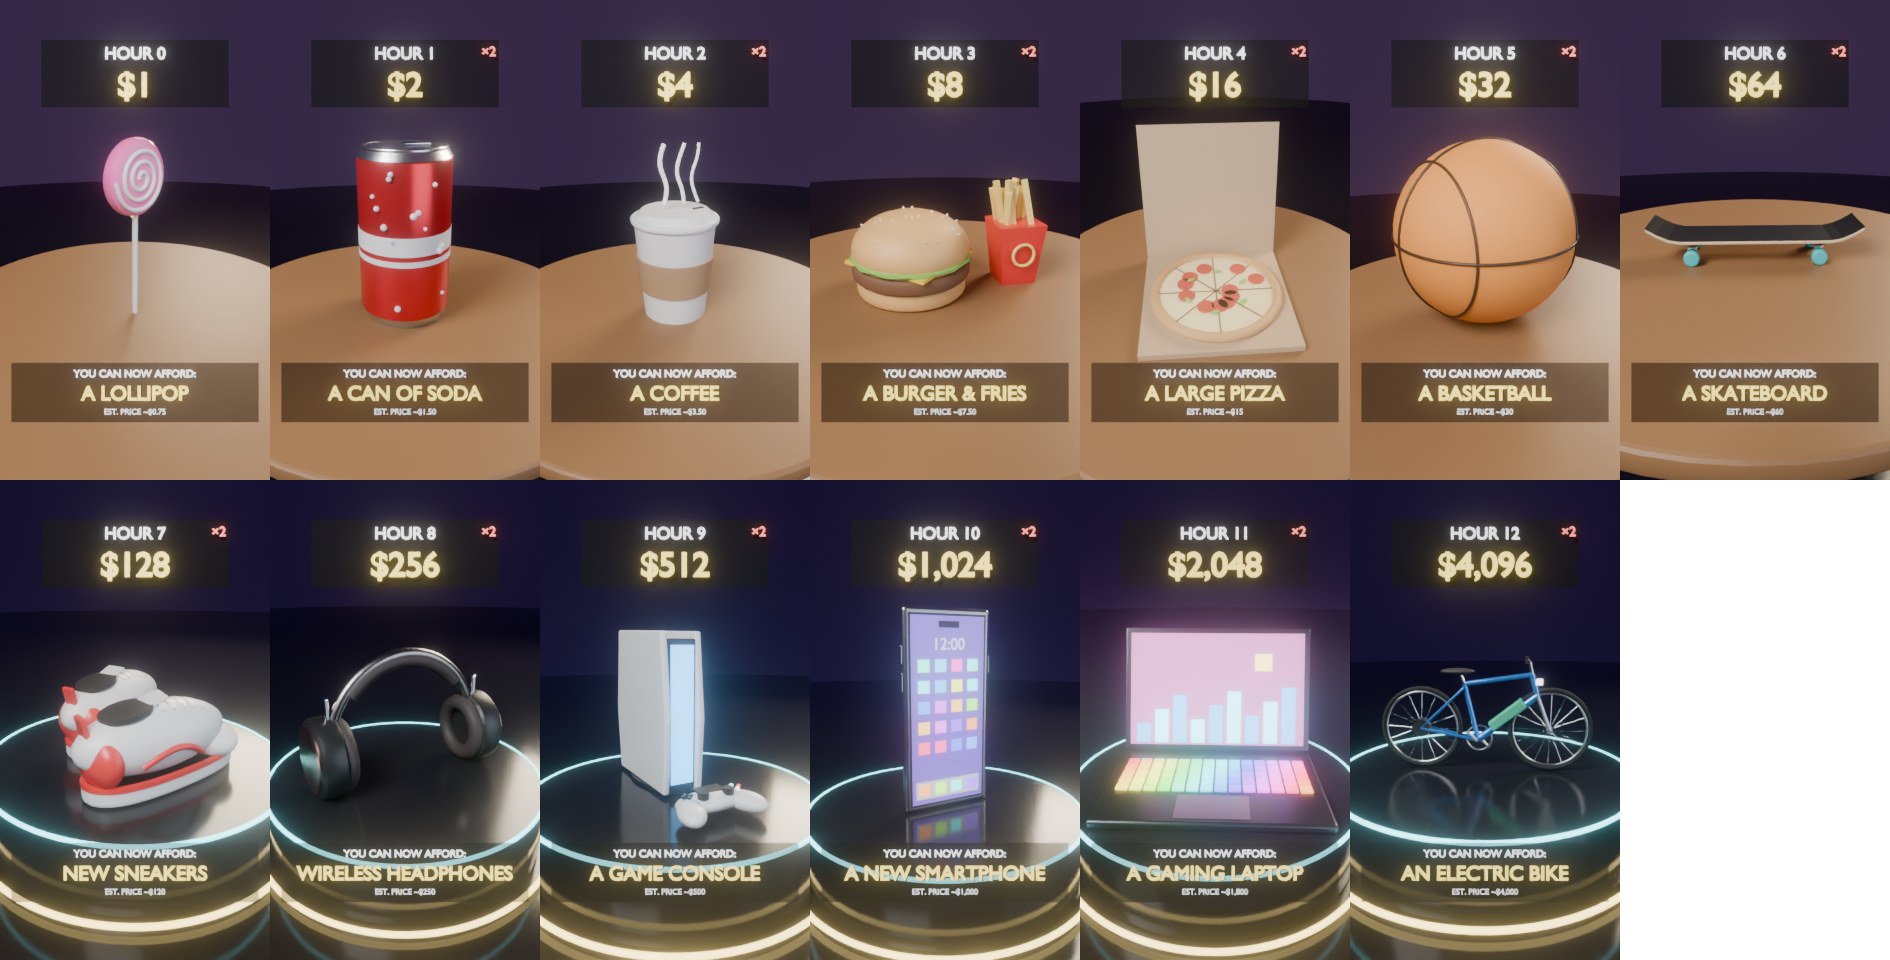
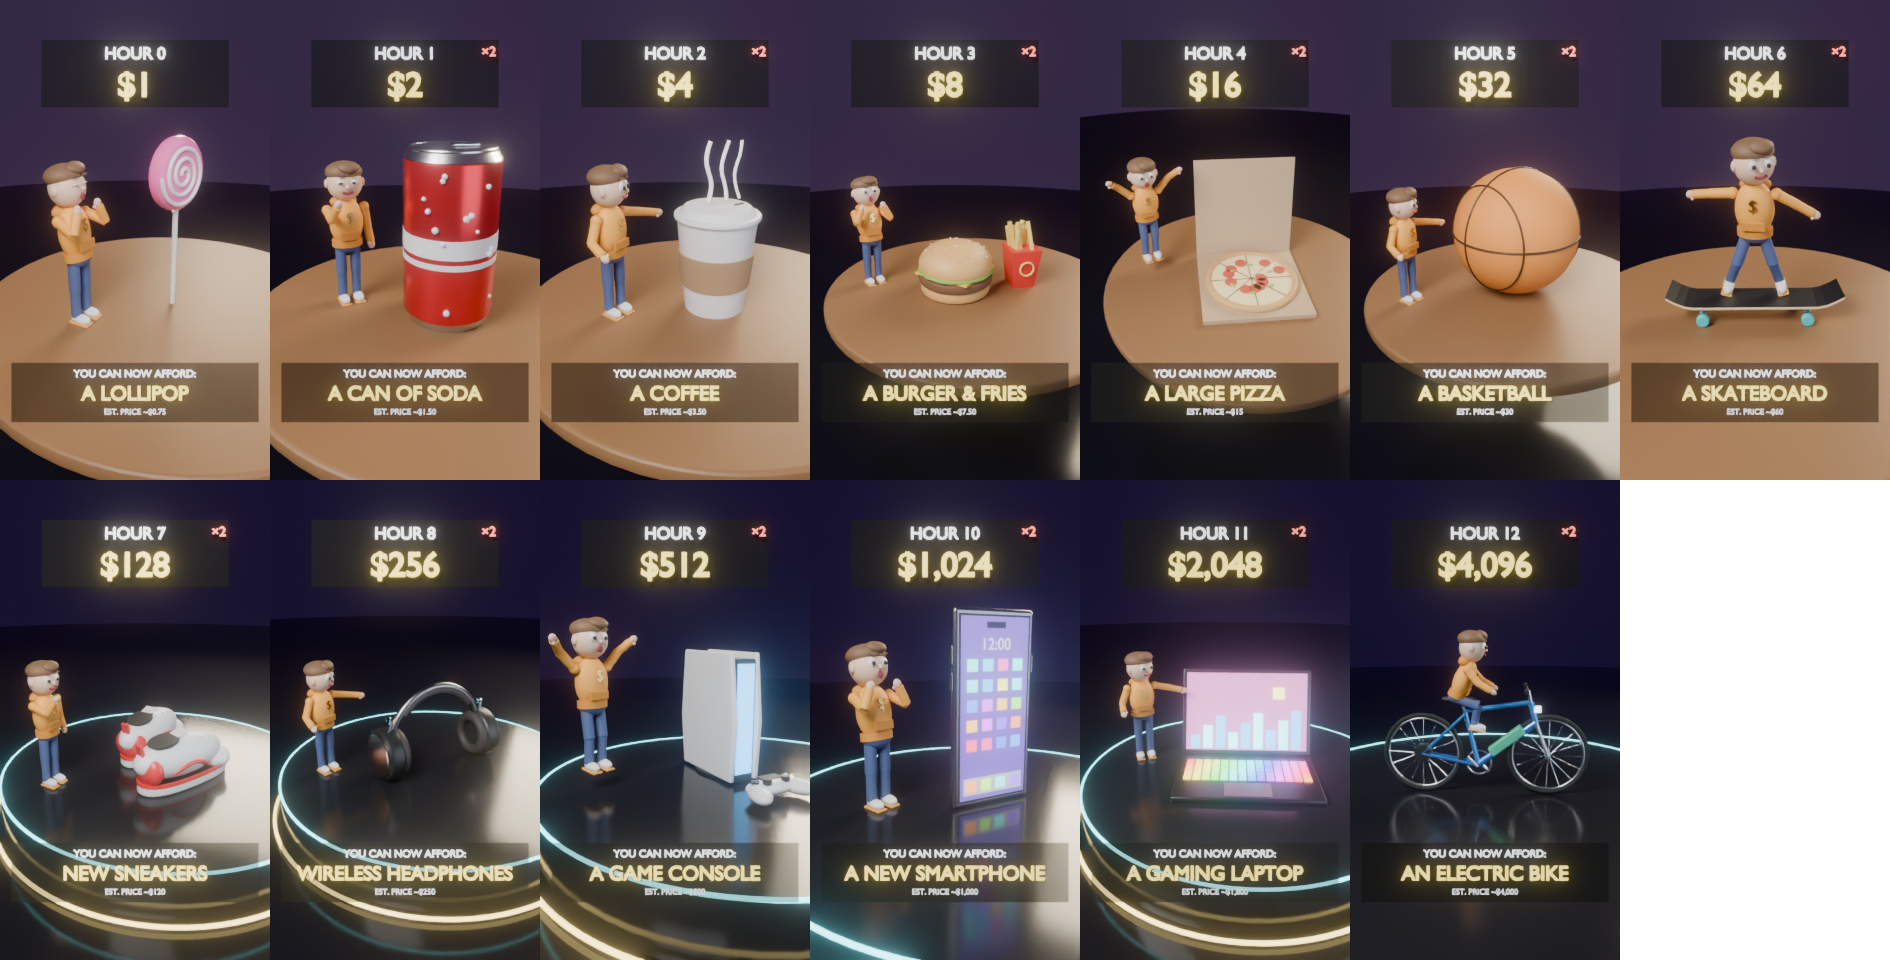
Keep Jimmy's feet inside vehicles and refresh the previews
Driving and piloting poses now stretch the legs toward the pedals
instead of hanging the shins straight down, which poked his feet out
under the jet's nose and could show them below the car bodies. The jet
pilot sits a little higher. The preview sheets now show Jimmy.

Claude-Session: https://claude.ai/code/session_01WB5TwSmbRE16LrFkmW8BJs

diff --git a/animation.py b/animation.py
@@ -1328,7 +1328,7 @@ def build_private_jet():
         ball((-2.55, s * 5.8, -0.42), 0.08, "glow_red" if s < 0 else "glow_white", verts=8)
     extrude([(-5.2, 0.5), (-6.9, 0.5), (-7.8, 2.65), (-7.0, 2.65)], 0.14, "jet_white", bevel=0.02)
     extrude([(-6.0, 0.9), (-6.6, 0.9), (-7.45, 2.4), (-7.2, 2.4)], 0.145, "gold")
-    return {"yaw": 0, "spin": 8, "jimmy": (5.2, -0.25, -0.55, 2.1, 90)}
+    return {"yaw": 0, "spin": 8, "jimmy": (5.2, -0.25, -0.35, 1.9, 90)}
 
 
 def build_superyacht():
@@ -1402,12 +1402,12 @@ POSES = {
                     "neck": (0, 0, 25)},
     "skate_b":     {"hip_L": (0, -18, 0), "hip_R": (0, 18, 0), "knee_L": (30, 0, 0), "knee_R": (30, 0, 0),
                     "shoulder_L": (0, -55, 20), "shoulder_R": (0, 85, -20), "spine": (10, 0, -10), "neck": (0, 0, 30)},
-    "drive":       {"hip_L": (-90, 8, 0), "hip_R": (-90, -8, 0), "knee_L": (90, 0, 0), "knee_R": (90, 0, 0),
+    "drive":       {"hip_L": (-90, 8, 0), "hip_R": (-90, -8, 0), "knee_L": (30, 0, 0), "knee_R": (30, 0, 0),
                     "shoulder_L": (-70, -8, 0), "shoulder_R": (-70, 8, 0), "elbow_L": (-25, 0, 0), "elbow_R": (-25, 0, 0)},
-    "drive_wave":  {"hip_L": (-90, 8, 0), "hip_R": (-90, -8, 0), "knee_L": (90, 0, 0), "knee_R": (90, 0, 0),
+    "drive_wave":  {"hip_L": (-90, 8, 0), "hip_R": (-90, -8, 0), "knee_L": (30, 0, 0), "knee_R": (30, 0, 0),
                     "shoulder_L": (-70, -8, 0), "elbow_L": (-25, 0, 0), "shoulder_R": (0, 135, 0), "elbow_R": (0, 28, 0),
                     "neck": (0, 0, -55)},
-    "drive_wave2": {"hip_L": (-90, 8, 0), "hip_R": (-90, -8, 0), "knee_L": (90, 0, 0), "knee_R": (90, 0, 0),
+    "drive_wave2": {"hip_L": (-90, 8, 0), "hip_R": (-90, -8, 0), "knee_L": (30, 0, 0), "knee_R": (30, 0, 0),
                     "shoulder_L": (-70, -8, 0), "elbow_L": (-25, 0, 0), "shoulder_R": (0, 135, 0), "elbow_R": (0, -22, 0),
                     "neck": (0, 0, -55)},
     "ride":        {"hip_L": (-70, 15, 0), "hip_R": (-70, -15, 0), "knee_L": (80, 0, 0), "knee_R": (80, 0, 0),
